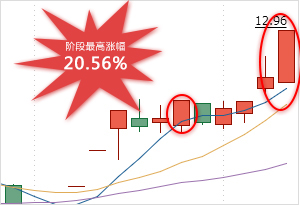
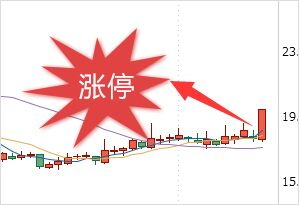
add '财通证券'

diff --git a/app/static/js/teacher_stock.js b/app/static/js/teacher_stock.js
@@ -1,9 +1,19 @@
+import wuweiwei1 from '../img/stocks/wuweiwei1.jpg'
 import wuweiwei2 from '../img/stocks/wuweiwei2.jpg'
 import maxin2 from '../img/stocks/maxin2.jpg'
 import jiaoxiaoyi1 from '../img/stocks/jiaoxiaoyi1.jpg'
 
 //吴伟伟
 let wuweiwei = [
+  {
+    name: '财通证券',
+    code: '601108',
+    result: '涨停',
+    daySend: '2018.1.15',
+    day: '次日',
+    dayCount: '次日',
+    img: wuweiwei1
+  },
   {
     name: '世纪天鸿',
     code: '300654',
